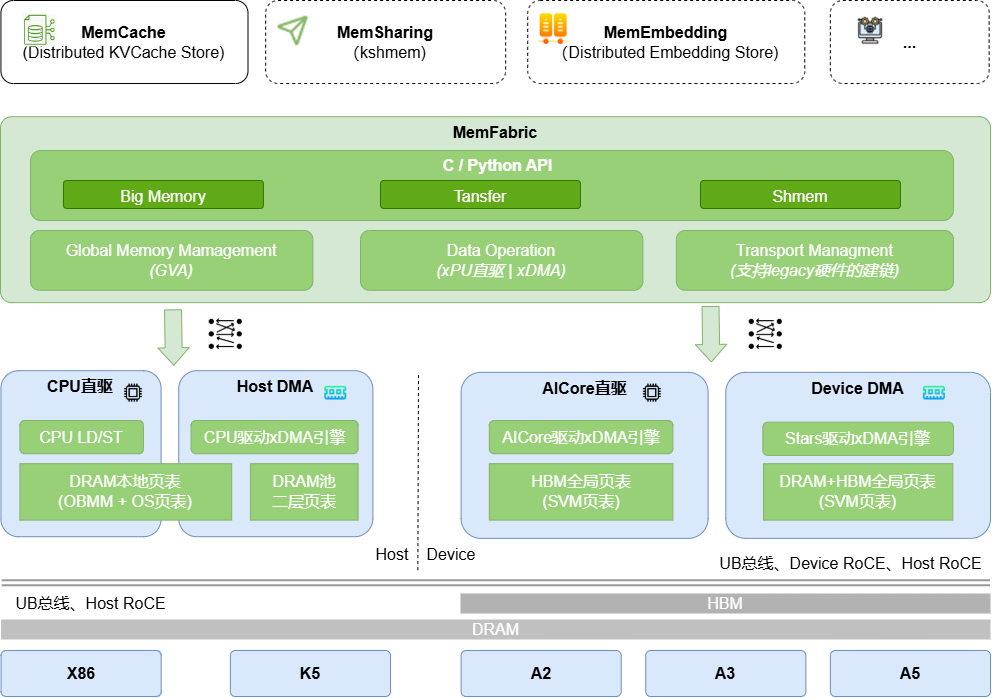
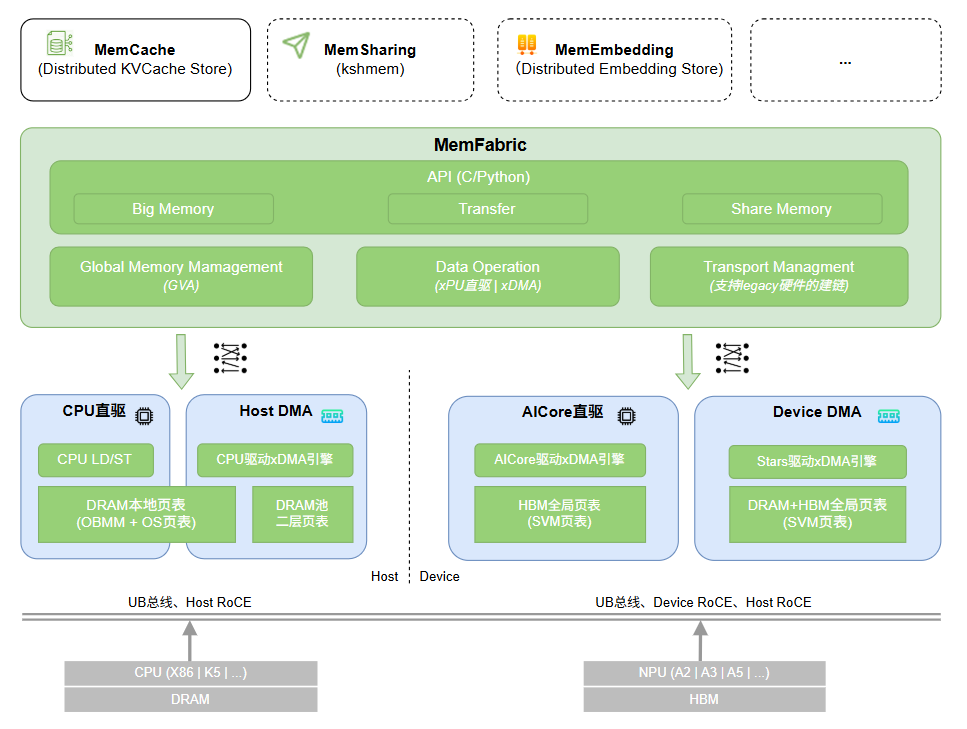
- updated architecture.png and refined README.md
# message auto-generated for no-merge-commit merge:
!232 merge develop into develop

- updated architecture.png and refined README.md

Created-by: minibao
Commit-by: minibao
Merged-by: victor7wang
Description: # Pull Request Template

## Description

1 Updated the architecture picture to correct some typo (for instance, 'tansfer' -> 'transfer')
2 Refined the readme, about the summary of MemFabric

## Related Issues

There is no issue related

## Type of Change

- [ ] Bug fix
- [ ] New feature
- [ ] Performance optimization
- [x] Documentation update
- [ ] Other (please describe):_______________

## Testing

NA

## Checklist

- [x] I have performed a self-review of my own code.  
- [x] I have updated the documentation.  
- [ ] I have added tests to prove my changes are effective.

See merge request: Ascend/memfabric_hybrid!232

diff --git a/README.md b/README.md
@@ -10,10 +10,10 @@
 
 ## 🎉概述
 
-  MemFabric是一款开源内存池化软件，面向昇腾超节点和服务器等，其设计目的是:
-  - 将多节点的异构设备内存(DRAM|显存等)池化且提供高性能的全局内存直接访问的能力
-  - 北向提供简单的内存语义访问接口(xcopy with global virtual address)，支持D2RH\RH2D\RH2H等内存直接访问
-  - 南向支持多种DMA引擎及多种网络/灵衢互联 (Device UB、Device RoCE、Host UB、Host RoCE等)，对上屏蔽复杂性
+  MemFabric是一款开源内存池化软件，面向昇腾超节点和服务器等，其设计目的与核心思想是:
+  - 异构设备的统一池化: 将多节点的异构设备内存(DRAM|HBM等)池化, 提供高性能的全局内存"直接访问"的能力
+  - 简单的北向接口: 提供内存语义访问接口, 即xcopy with global virtual address, 向传统的memcpy概念靠近, 支持D2RH\RH2D\RH2H\D2D等
+  - 南向高可扩展: 通过插件的方式支持多种DMA引擎和LD/ST及多种网络/灵衢互联(Device UB、Device RoCE、Host UB、Host RoCE等)
      
 ![architecture](./doc/source/architecture.png)
       
